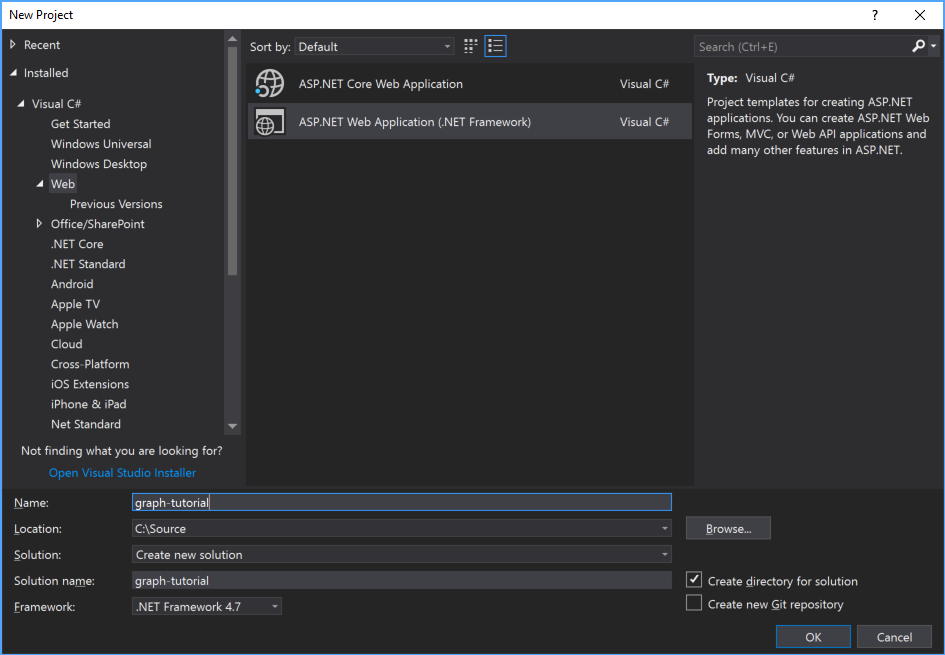
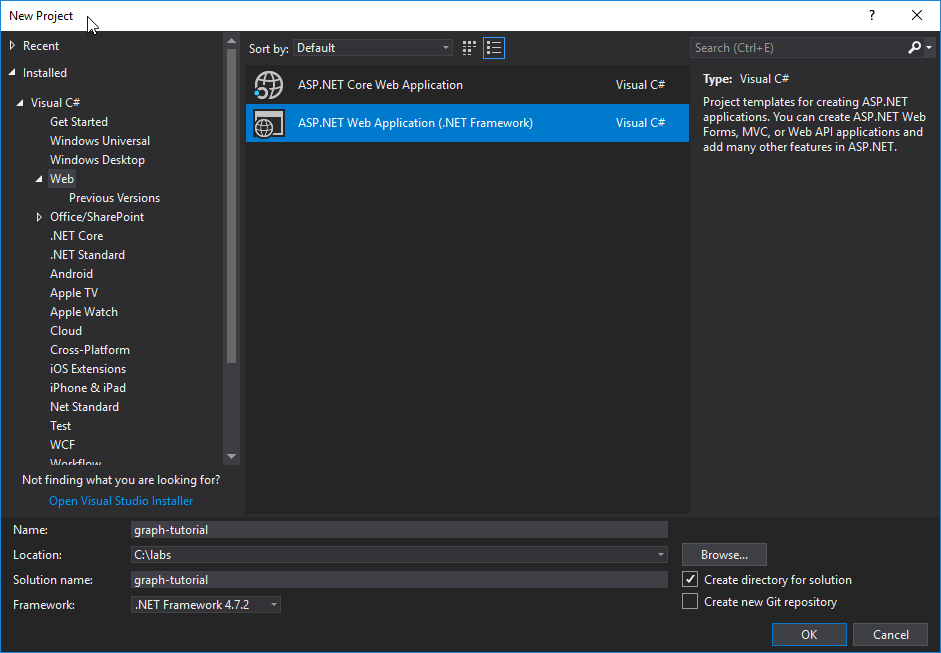
content refresh
- updated & validated steps to use .NET FX 4.7.2

diff --git a/tutorial/create-app.md b/tutorial/create-app.md
@@ -11,7 +11,7 @@ Open Visual Studio, and select **File > New > Project**. In the **New Project** 
 > [!NOTE]
 > Ensure that you enter the exact same name for the Visual Studio Project that is specified in these lab instructions. The Visual Studio Project name becomes part of the namespace in the code. The code inside these instructions depends on the namespace matching the Visual Studio Project name specified in these instructions. If you use a different project name the code will not compile unless you adjust all the namespaces to match the Visual Studio Project name you enter when you create the project.
 
-Select **OK**. In the **New ASP.NET Web Application Project** dialog, select **MVC** (under **ASP.NET 4.7 Templates**) and select **OK**.
+Select **OK**. In the **New ASP.NET Web Application Project** dialog, select **MVC** (under **ASP.NET 4.7.2 Templates**) and select **OK**.
 
 Press **F5** or select **Debug > Start Debugging**. If everything is working, your default browser should open and display a default ASP.NET page.
 

diff --git a/README.md b/README.md
@@ -38,6 +38,7 @@ This module has been recorded and is available in the Office Development YouTube
 
 | Version |        Date        |                       Comments                       |
 | ------- | ------------------ | ---------------------------------------------------- |
+| 1.6     | December 18, 2018  | 2019Q2 content refresh                               |
 | 1.5     | November 27, 2018  | Onboarded to docs.microsoft.com/graph                |
 | 1.4     | September 12, 2018 | 2019Q1 content refresh                               |
 | 1.3     | August 24, 2018    | Revised modules for consistency with other training. |
